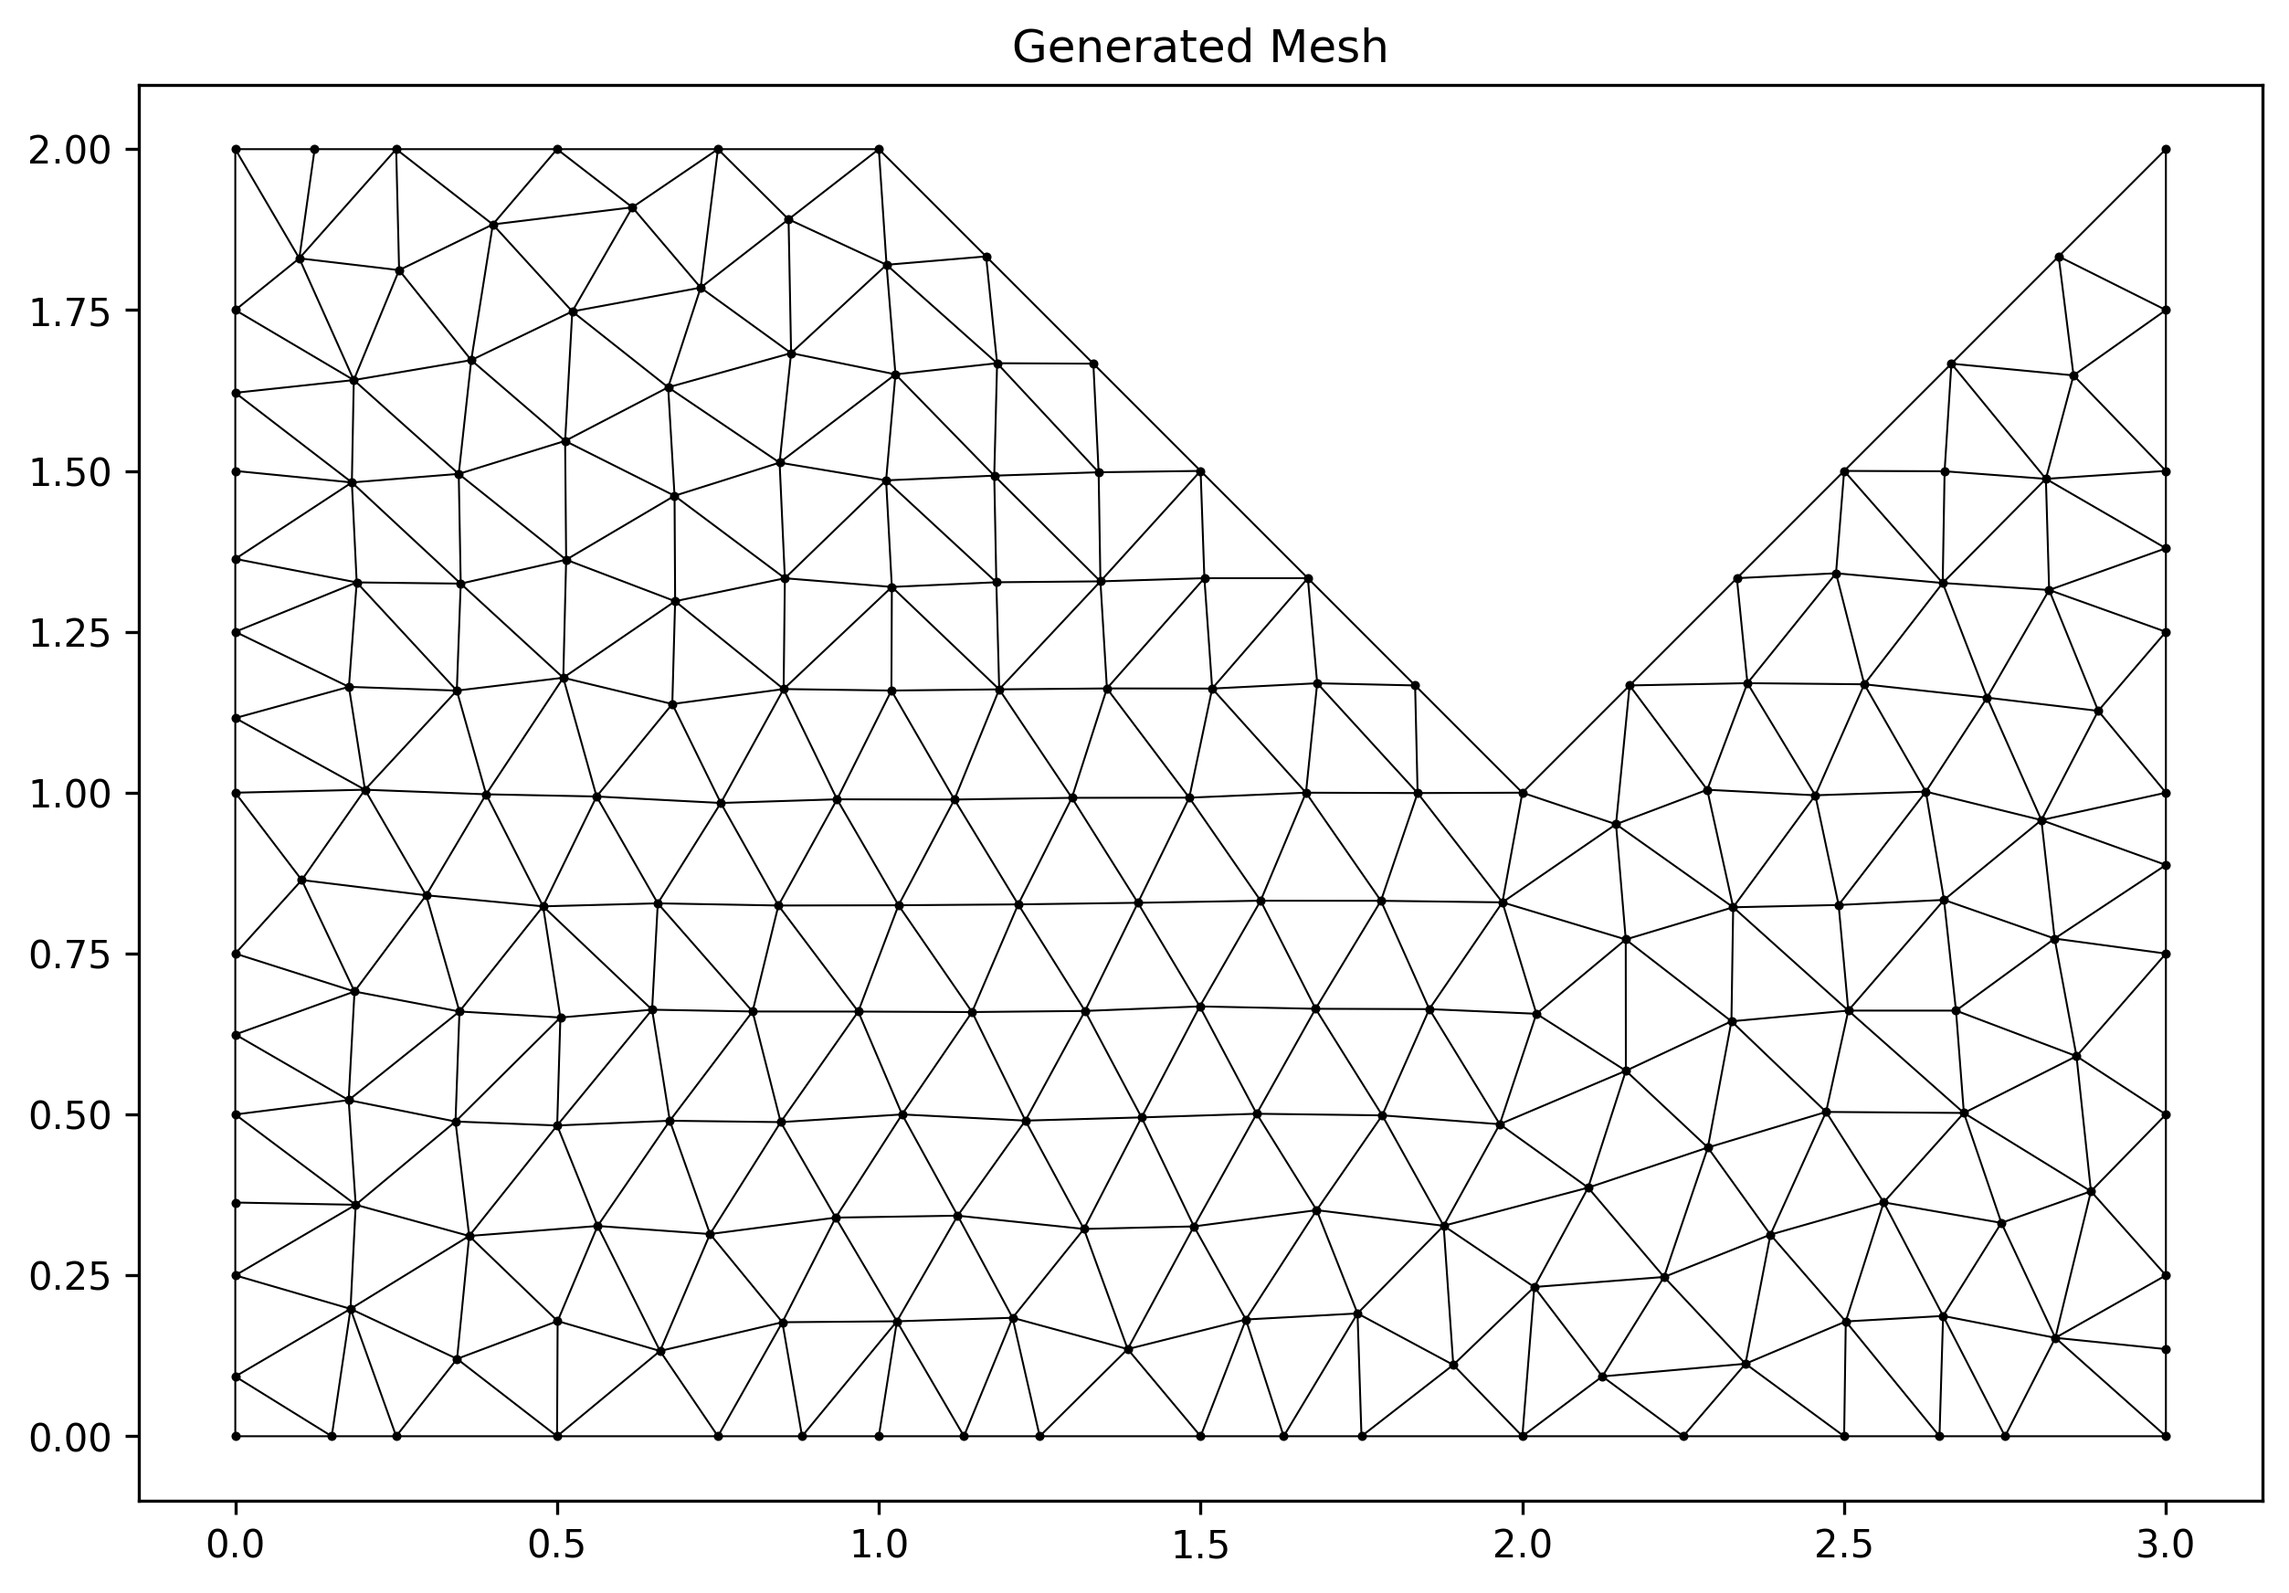
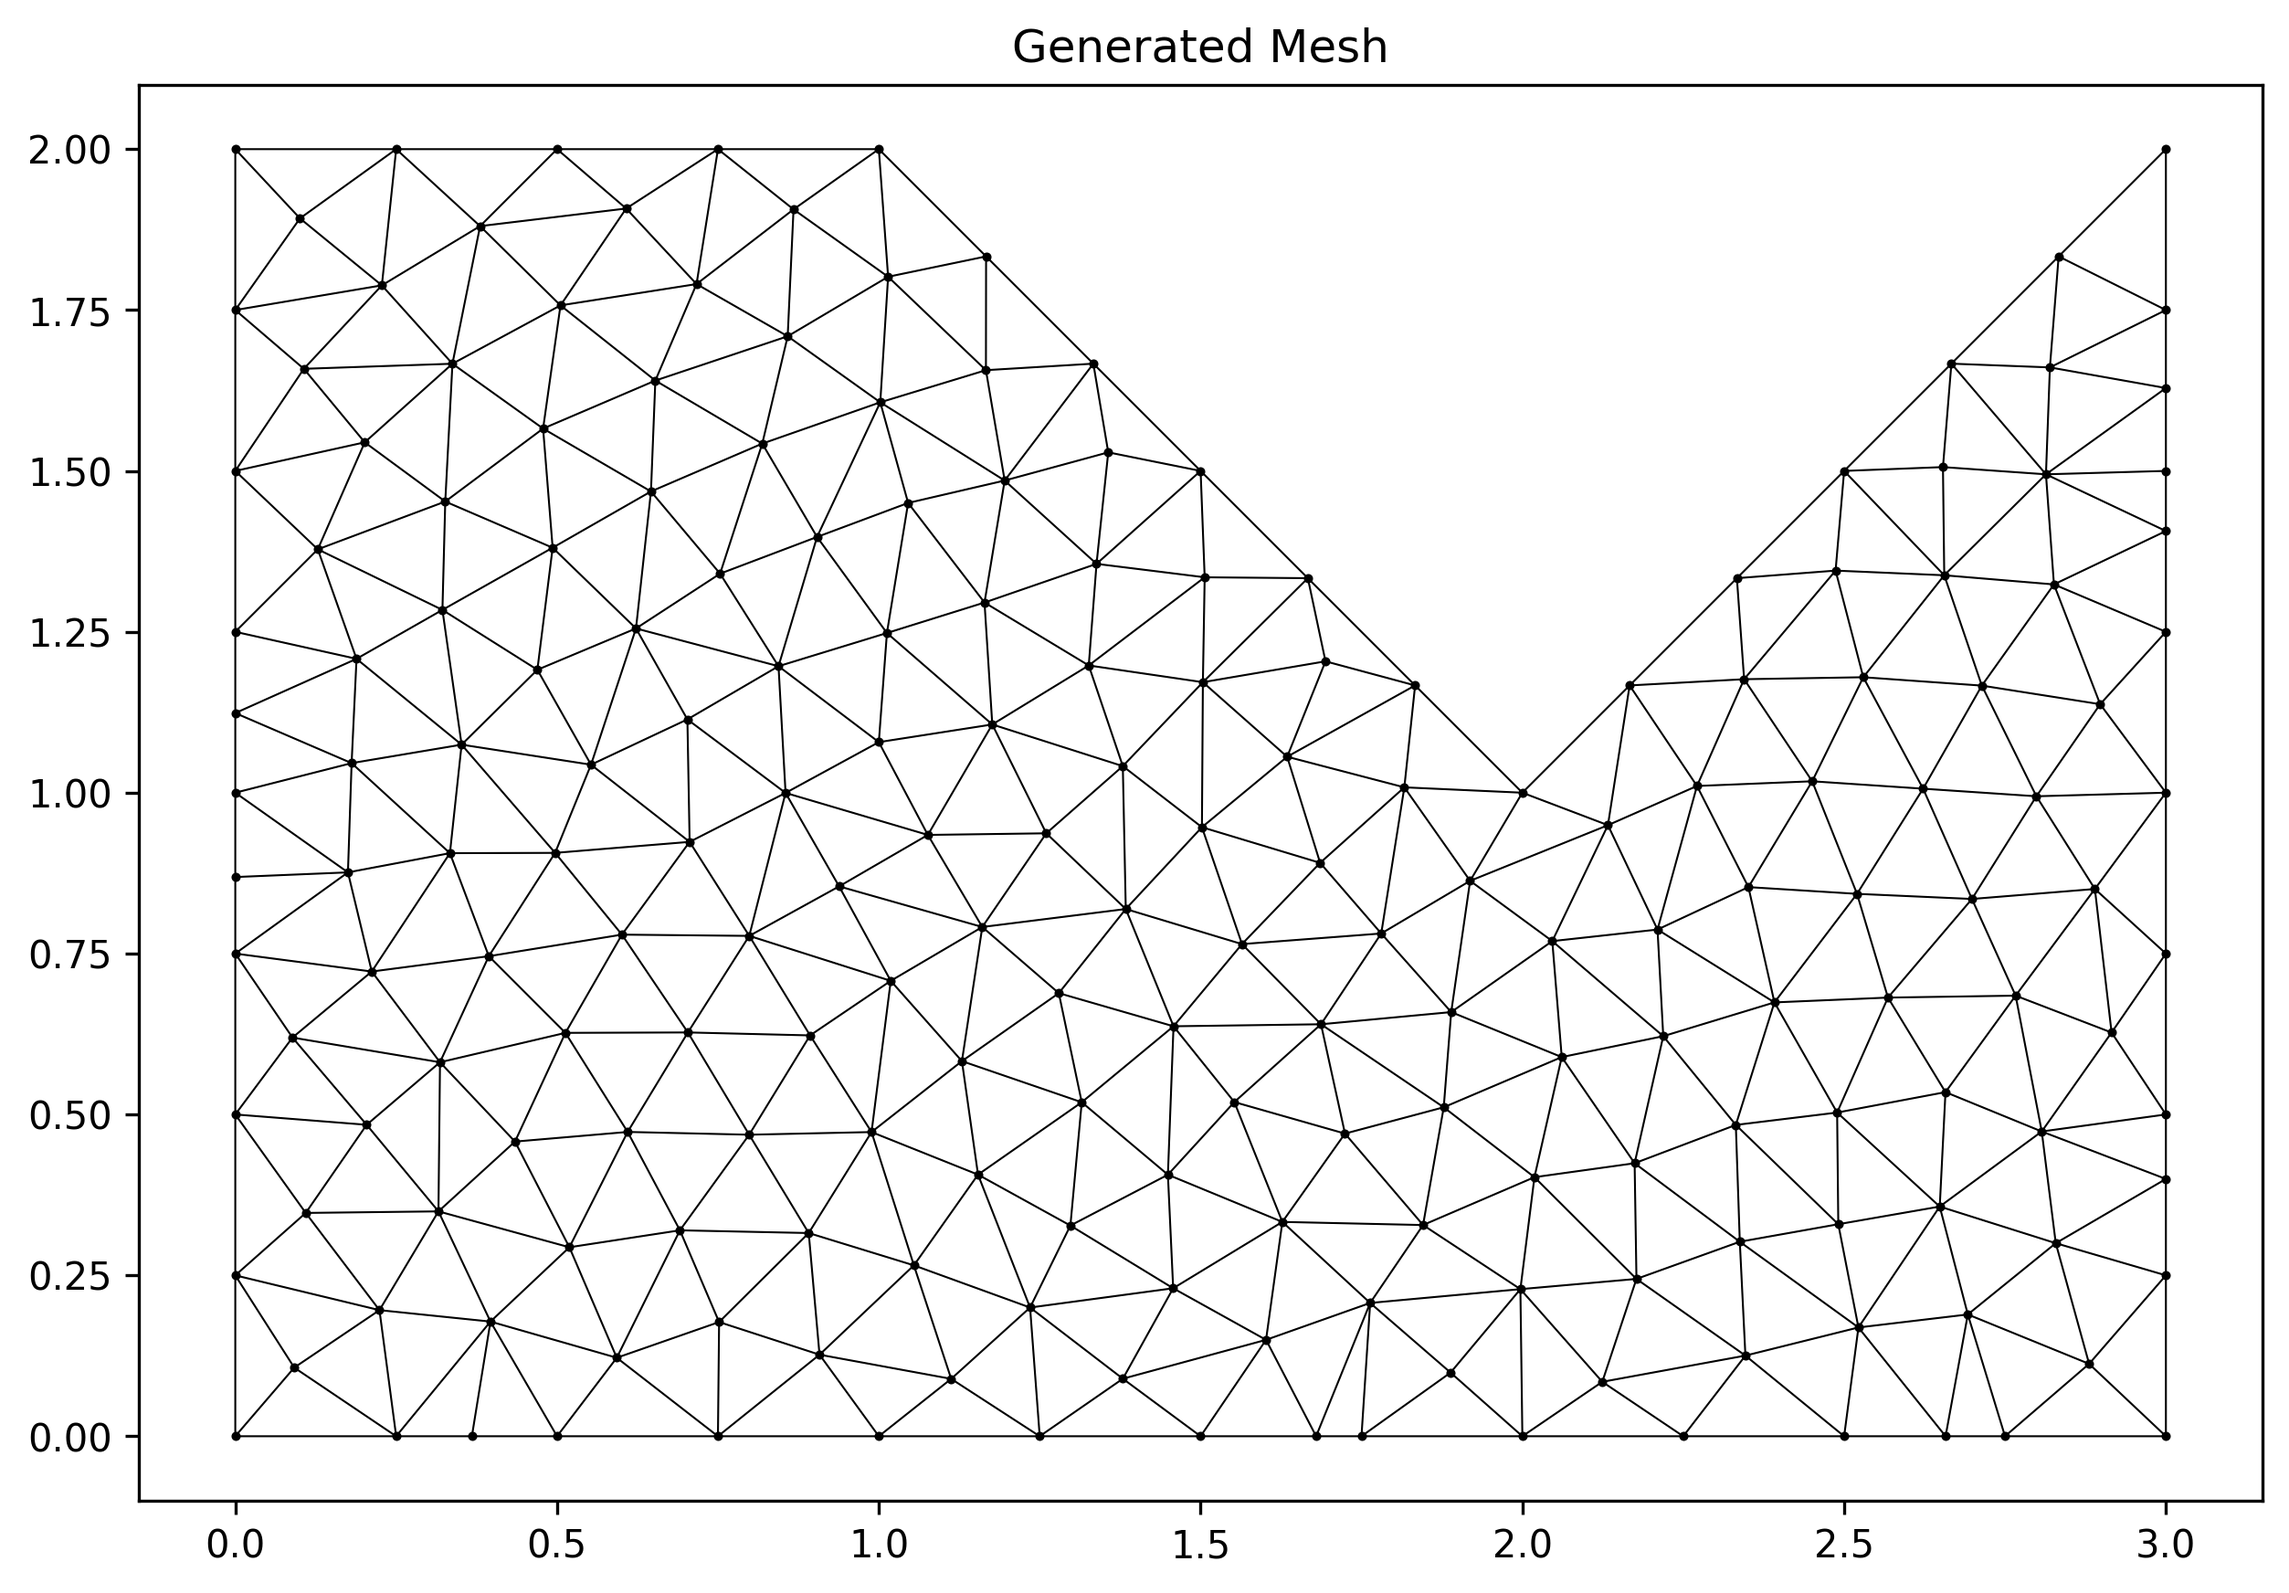
Changed number of iterations to 100 from 1000.

diff --git a/main.py b/main.py
@@ -15,7 +15,7 @@ if __name__ == '__main__':
     # 2. Generate Mesh
     mesh = MeshGenerator(data, smoother=distmesh_smoother)
     #mesh = MeshGenerator(data, smoother=spring_smoother)
-    smoothed_points, final_cells = mesh.generate(niters=1000)    
+    smoothed_points, final_cells = mesh.generate(niters=100)    
     
 
     
